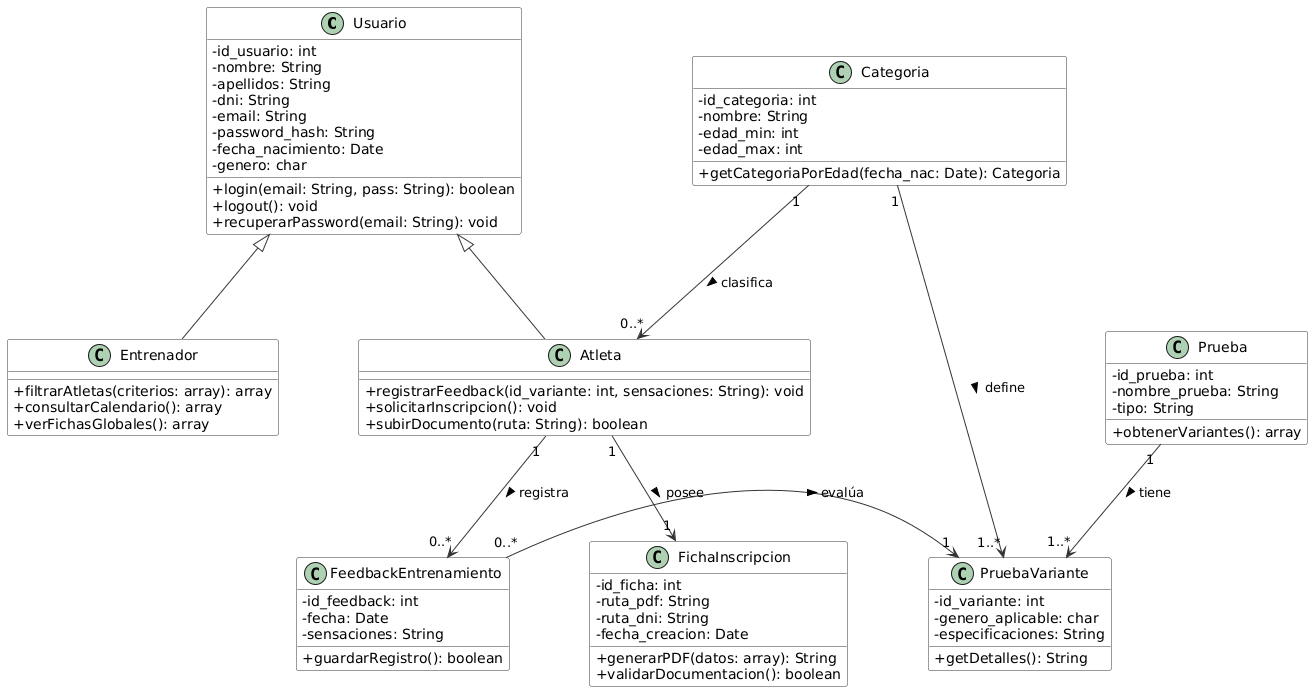
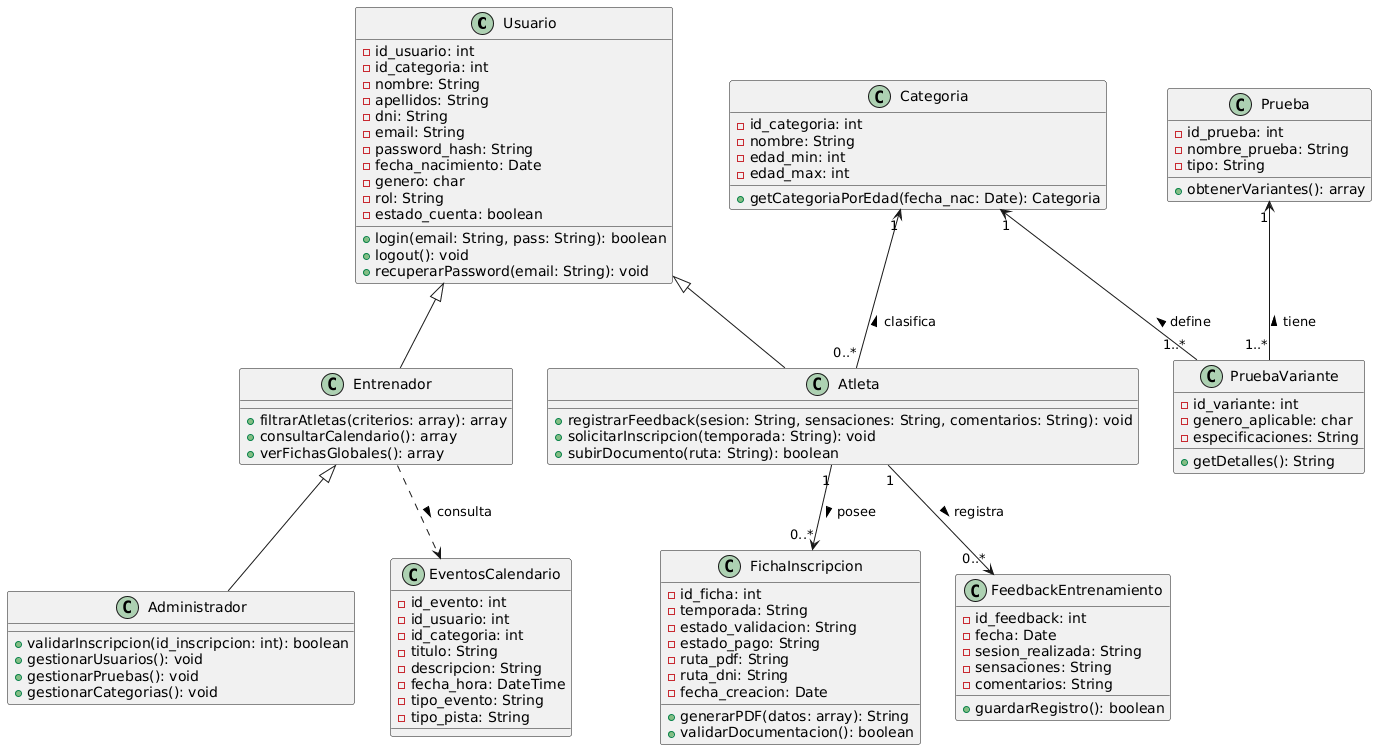
[FIX] Submission 3 renewed

diff --git a/index.html b/index.html
@@ -597,7 +597,7 @@
                 <h4>3.4.1. Entidad Relación</h4>
                 <a id="figura8-er"></a>
                 <figure class="figura-logo">
-                    <img src="img/entidadRelacionIanuarius-transparente.png" class="img-diagrama img-zoomable" alt="Diagrama Entidad-Relación">
+                    <img src="img/entidadRelacionIanuarius-fondo.png" class="img-diagrama img-zoomable" alt="Diagrama Entidad-Relación">
                     <figcaption class="pie-foto">Figura 8. Diagrama Entidad-Relación de la DB.</figcaption>
                 </figure>
 